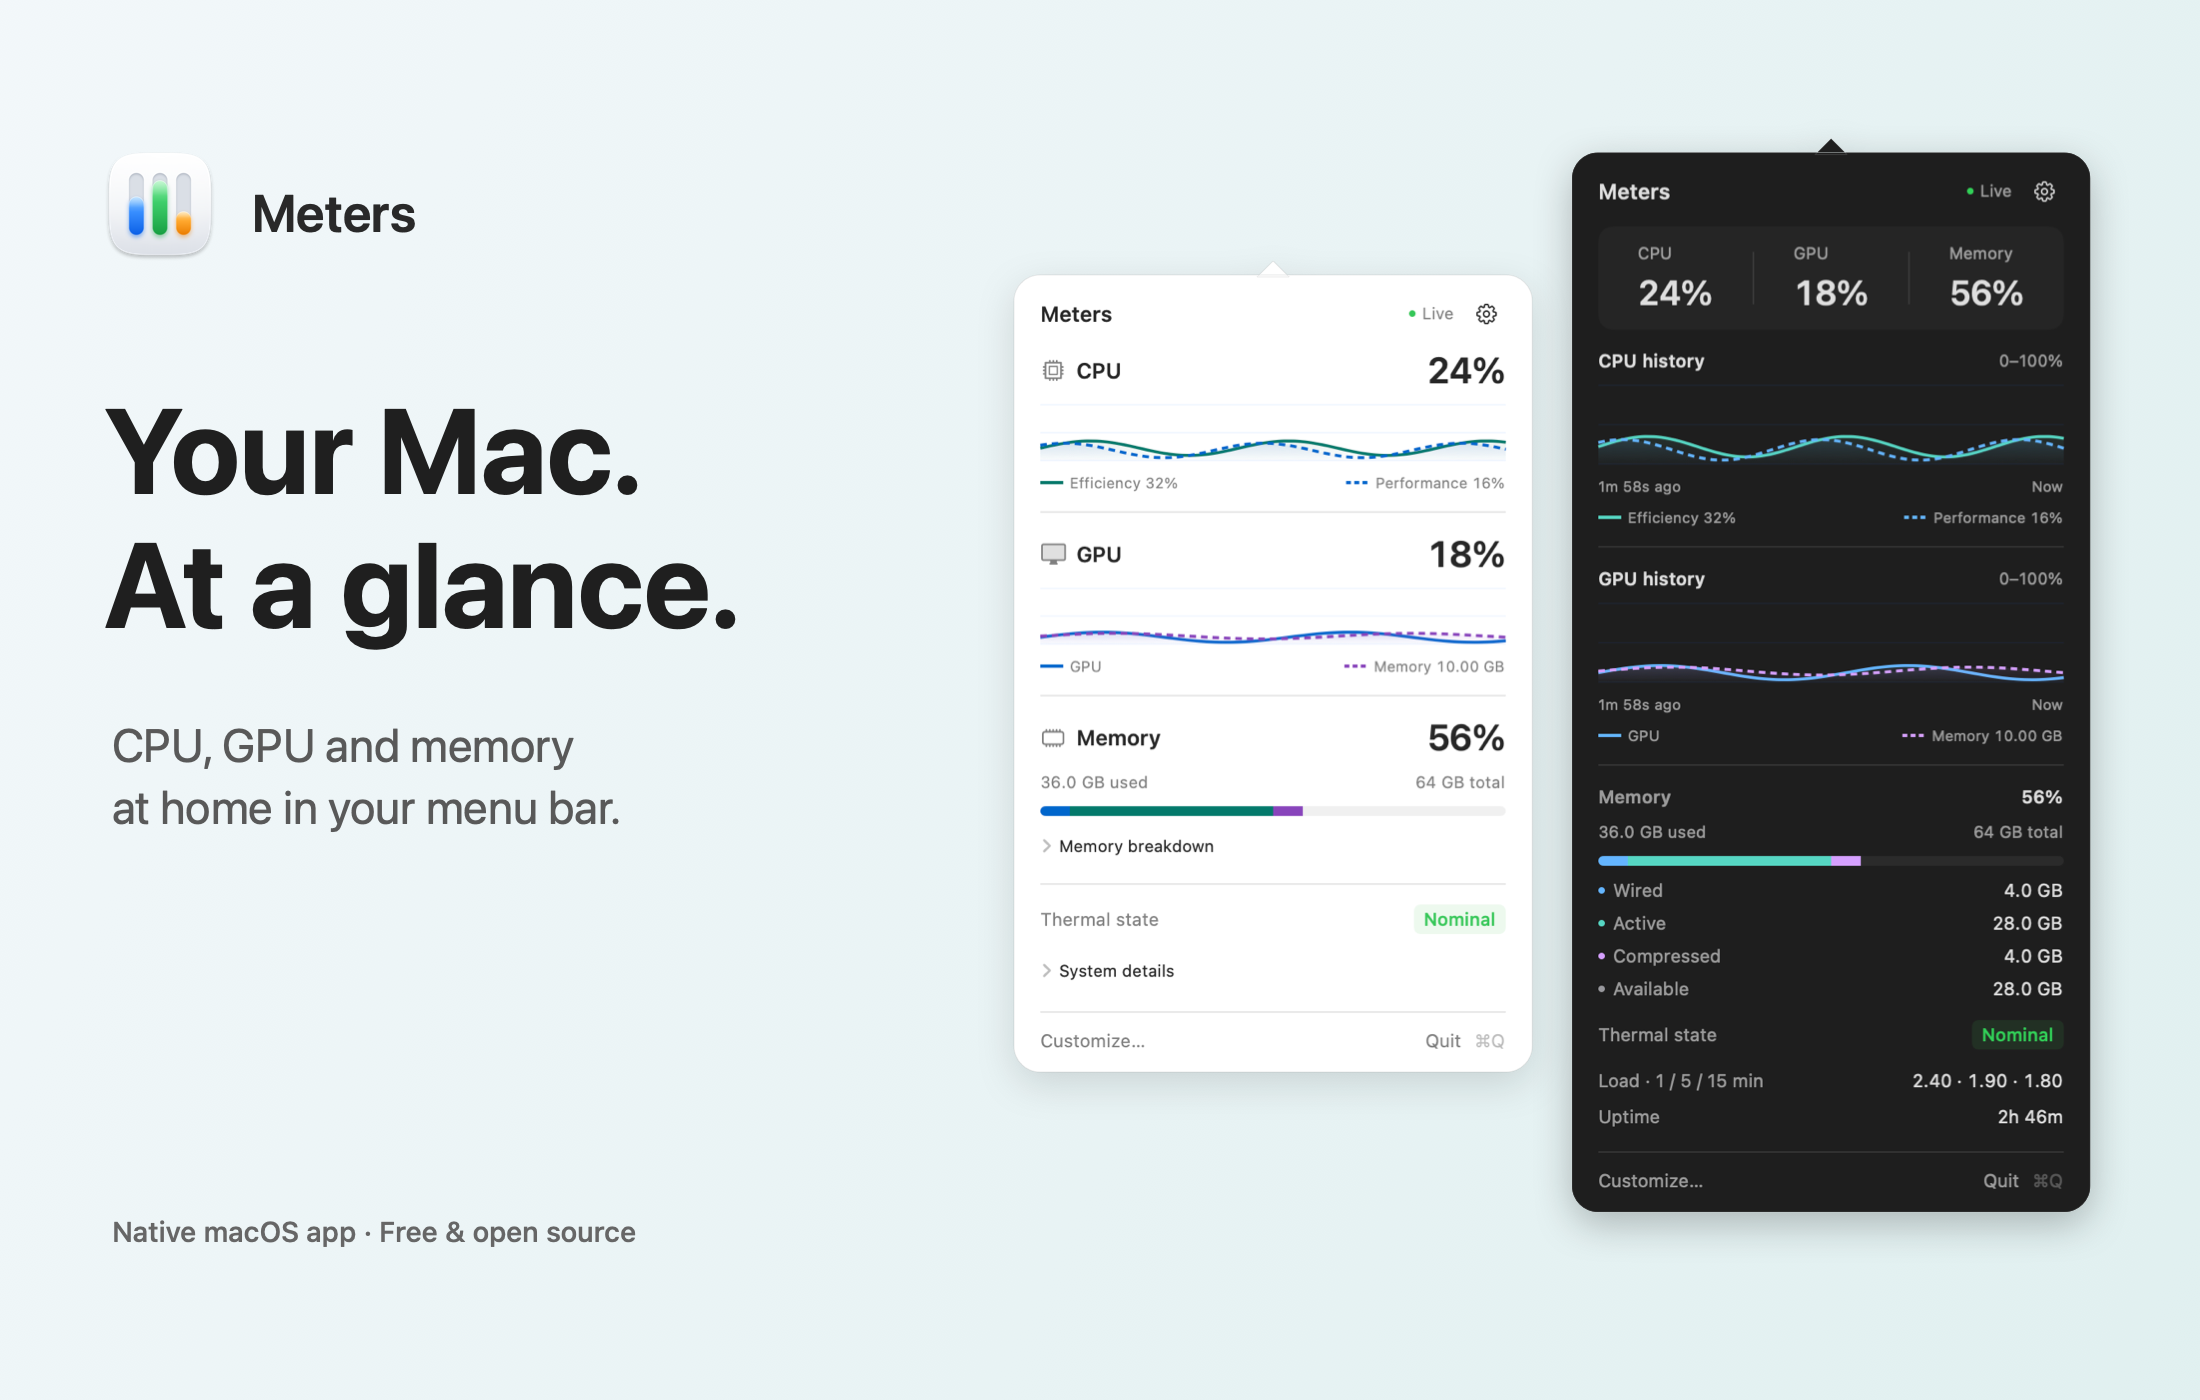
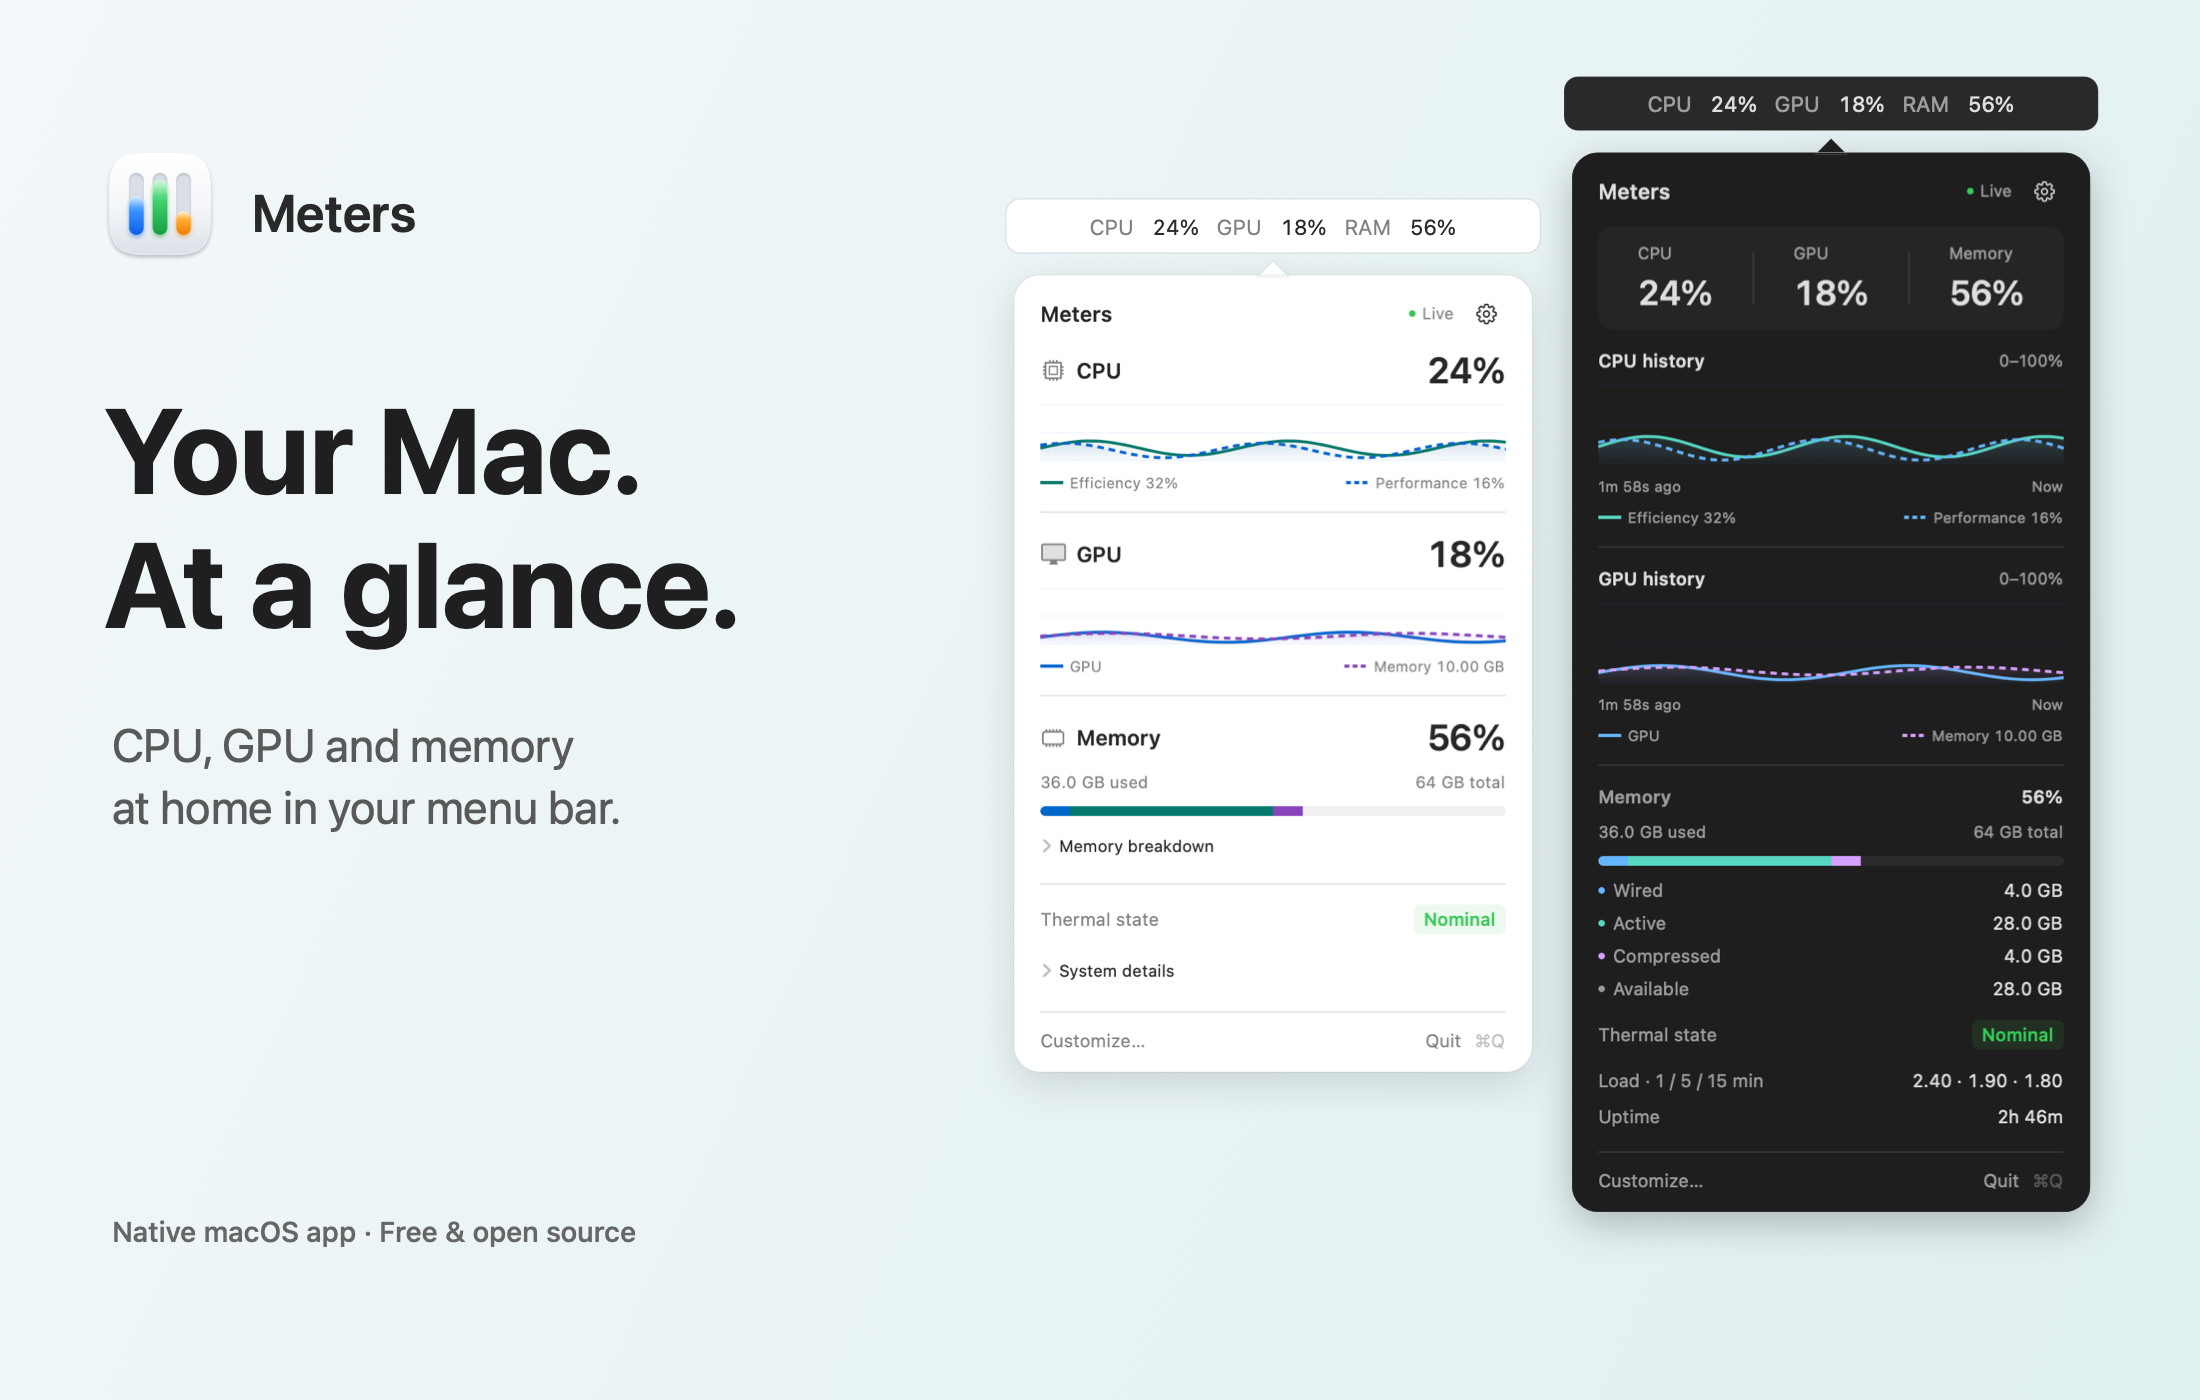
Show native menu bar readings in the README hero

Changed region(s): [[0.7109, 0.0307, 0.9582, 0.0921], [0.5873, 0.1536, 0.6491, 0.1843], [0.5255, 0.1536, 0.5564, 0.1843]]

diff --git a/scripts/capture-documentation.swift b/scripts/capture-documentation.swift
@@ -247,8 +247,37 @@ struct DocumentationCapture {
             text("at home in your menu bar.", x: 56, y: 283, size: 23, color: NSColor(white: 0.35, alpha: 1))
             text("Native macOS app · Free & open source", x: 56, y: 76, size: 14, weight: .medium, color: NSColor(white: 0.4, alpha: 1))
             let scale: CGFloat = 0.82
-            panel(dark, rect: NSRect(x: 786, y: 94, width: dark.size.width * scale, height: dark.size.height * scale), dark: true)
-            panel(light, rect: NSRect(x: 507, y: 164, width: light.size.width * scale, height: light.size.height * scale), dark: false)
+            let darkPanel = NSRect(x: 786, y: 94, width: dark.size.width * scale, height: dark.size.height * scale)
+            let lightPanel = NSRect(x: 507, y: 164, width: light.size.width * scale, height: light.size.height * scale)
+            panel(dark, rect: darkPanel, dark: true)
+            heroMenuBar(above: darkPanel, dark: true, scale: scale)
+            panel(light, rect: lightPanel, dark: false)
+            heroMenuBar(above: lightPanel, dark: false, scale: scale)
+        }
+    }
+
+    /// Show the product's primary surface, anchored to each popover's arrow.
+    /// Draw the production attributed title so the typeface and metric order match the app.
+    @MainActor private static func heroMenuBar(above panel: NSRect, dark: Bool, scale: CGFloat) {
+        let bar = NSRect(x: panel.minX - 4, y: panel.maxY + 11, width: panel.width + 8, height: 27)
+        NSAppearance(named: dark ? .darkAqua : .aqua)!.performAsCurrentDrawingAppearance {
+            let shape = NSBezierPath(roundedRect: bar, xRadius: 7, yRadius: 7)
+            NSColor(white: dark ? 0.16 : 1, alpha: 1).setFill()
+            shape.fill()
+            NSColor(white: dark ? 1 : 0, alpha: 0.12).setStroke()
+            shape.lineWidth = 0.5
+            shape.stroke()
+
+            let title = MenuBarRenderer.title(cpu: 24, ram: 56, gpu: 18, style: .text)
+            let titleSize = title.size()
+            NSGraphicsContext.saveGraphicsState()
+            let transform = NSAffineTransform()
+            transform.translateX(by: bar.midX - titleSize.width * scale / 2,
+                                 yBy: bar.midY - titleSize.height * scale / 2)
+            transform.scale(by: scale)
+            transform.concat()
+            title.draw(at: .zero)
+            NSGraphicsContext.restoreGraphicsState()
         }
     }
 

diff --git a/README.md b/README.md
@@ -17,7 +17,7 @@
 </p>
 
 <p align="center">
-  <img src="docs/images/hero.png" alt="Meters with the Compact popover in light appearance and Activity Monitor layout in dark appearance" width="1100">
+  <img src="docs/images/hero.png" alt="Native CPU, GPU and RAM menu bar readings above the Compact popover in light appearance and Activity Monitor layout in dark appearance" width="1100">
 </p>
 
 ## See what your Mac is doing
